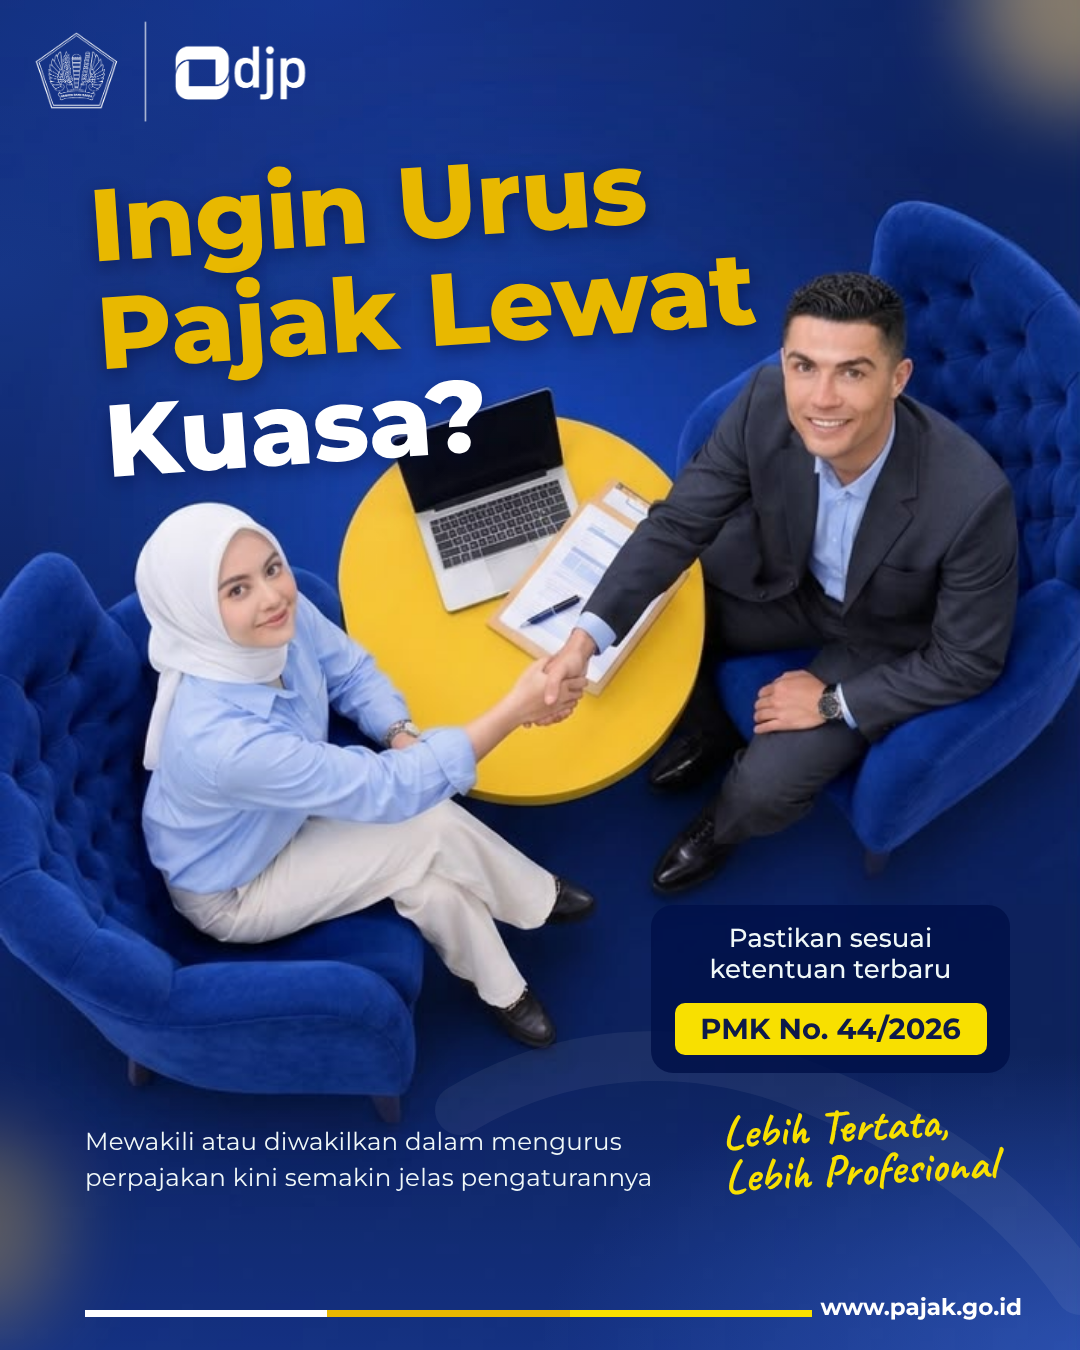
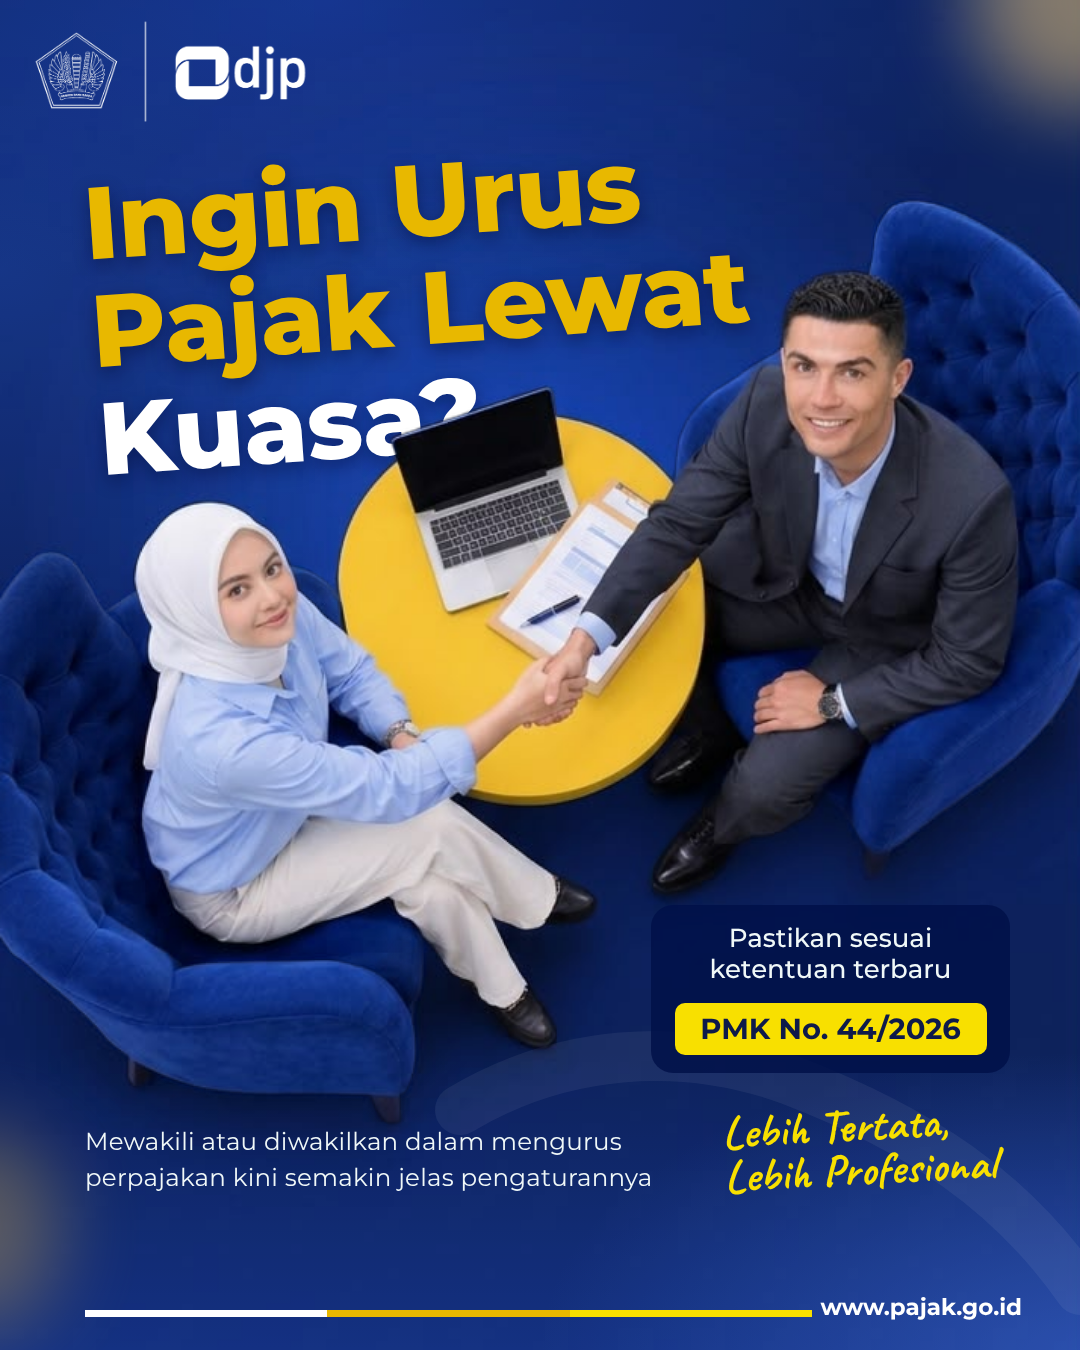
Kuasa poster: put headline behind the photo subjects using a cutout layer
Claude-Session: https://claude.ai/code/session_018jP4U2Ed3QMNwv77YE7TsJ

diff --git a/posters/kuasa/poster.html b/posters/kuasa/poster.html
@@ -48,7 +48,7 @@
 
   /* headline: heavy, two lines gold + last line white, tilted up, soft shadow */
   .headline {
-    position: absolute; left: 86px; top: 172px; transform: rotate(-4deg); transform-origin: left top;
+    position: absolute; left: 80px; top: 170px; transform: rotate(-4deg); transform-origin: left top;
     font: 800 102px/1.06 var(--sans); letter-spacing: -.005em; color: var(--gold);
     text-shadow: 0 6px 18px rgba(0, 8, 50, .45);
   }
@@ -93,6 +93,13 @@
       radial-gradient(60% 30% at 0% 20%, rgba(20, 50, 150, .45) 0%, transparent 100%),
       radial-gradient(50% 22% at 100% 100%, rgba(50, 80, 180, .55) 0%, transparent 100%),
       linear-gradient(to top, rgba(14, 34, 120, .5) 0%, transparent 22%); }
+  /* foreground cutout of the same photo, stacked above the headline so it passes behind people/table */
+  .photo.fg { z-index: 2; }
+  .tint.fg { z-index: 2;
+    -webkit-mask: url(assets/photo-cutout.png) 0 -330px / 1080px auto no-repeat;
+            mask: url(assets/photo-cutout.png) 0 -330px / 1080px auto no-repeat; }
+  .headline { z-index: 1; }
+  .panel, .body, .script, .bar, .url, .brand-img { z-index: 3; }
   .brand-img { position: absolute; left: 33px; top: 19px; width: 275px; }
 </style>
 </head>
@@ -110,6 +117,8 @@
   <img class="brand-img" src="assets/logo-white.png" alt="Kementerian Keuangan | DJP">
 
   <h1 class="headline">Ingin Urus<br>Pajak Lewat<br><span class="w">Kuasa?</span></h1>
+  <img class="photo fg" src="assets/photo-cutout.png" alt="">
+  <div class="tint fg"></div>
 
   <div class="panel">
     Pastikan sesuai<br>ketentuan terbaru
